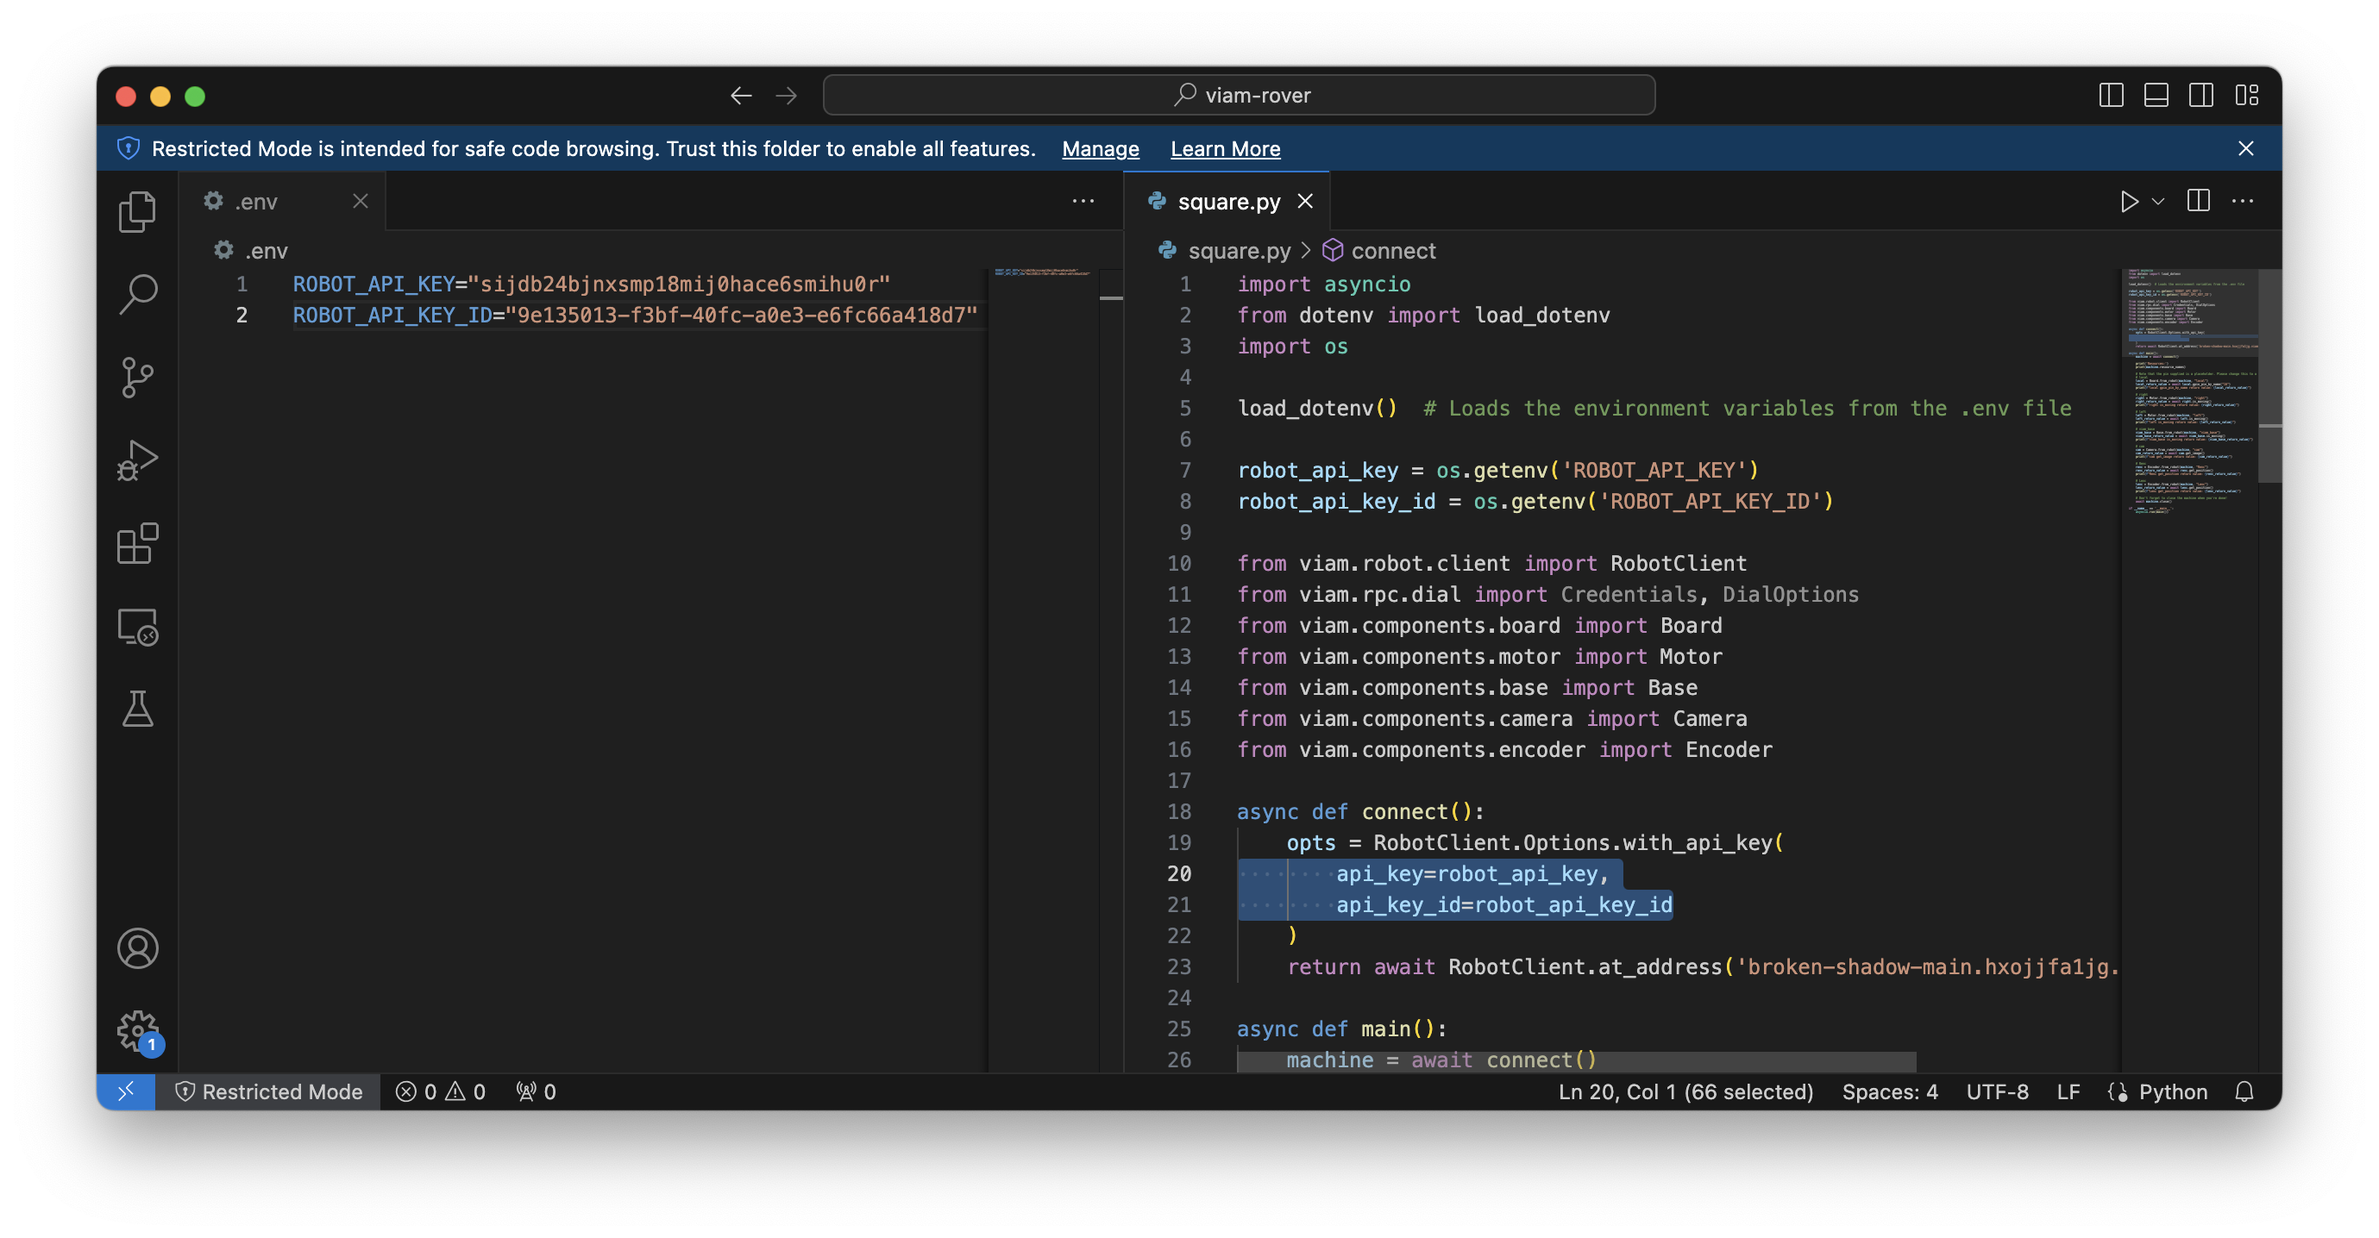
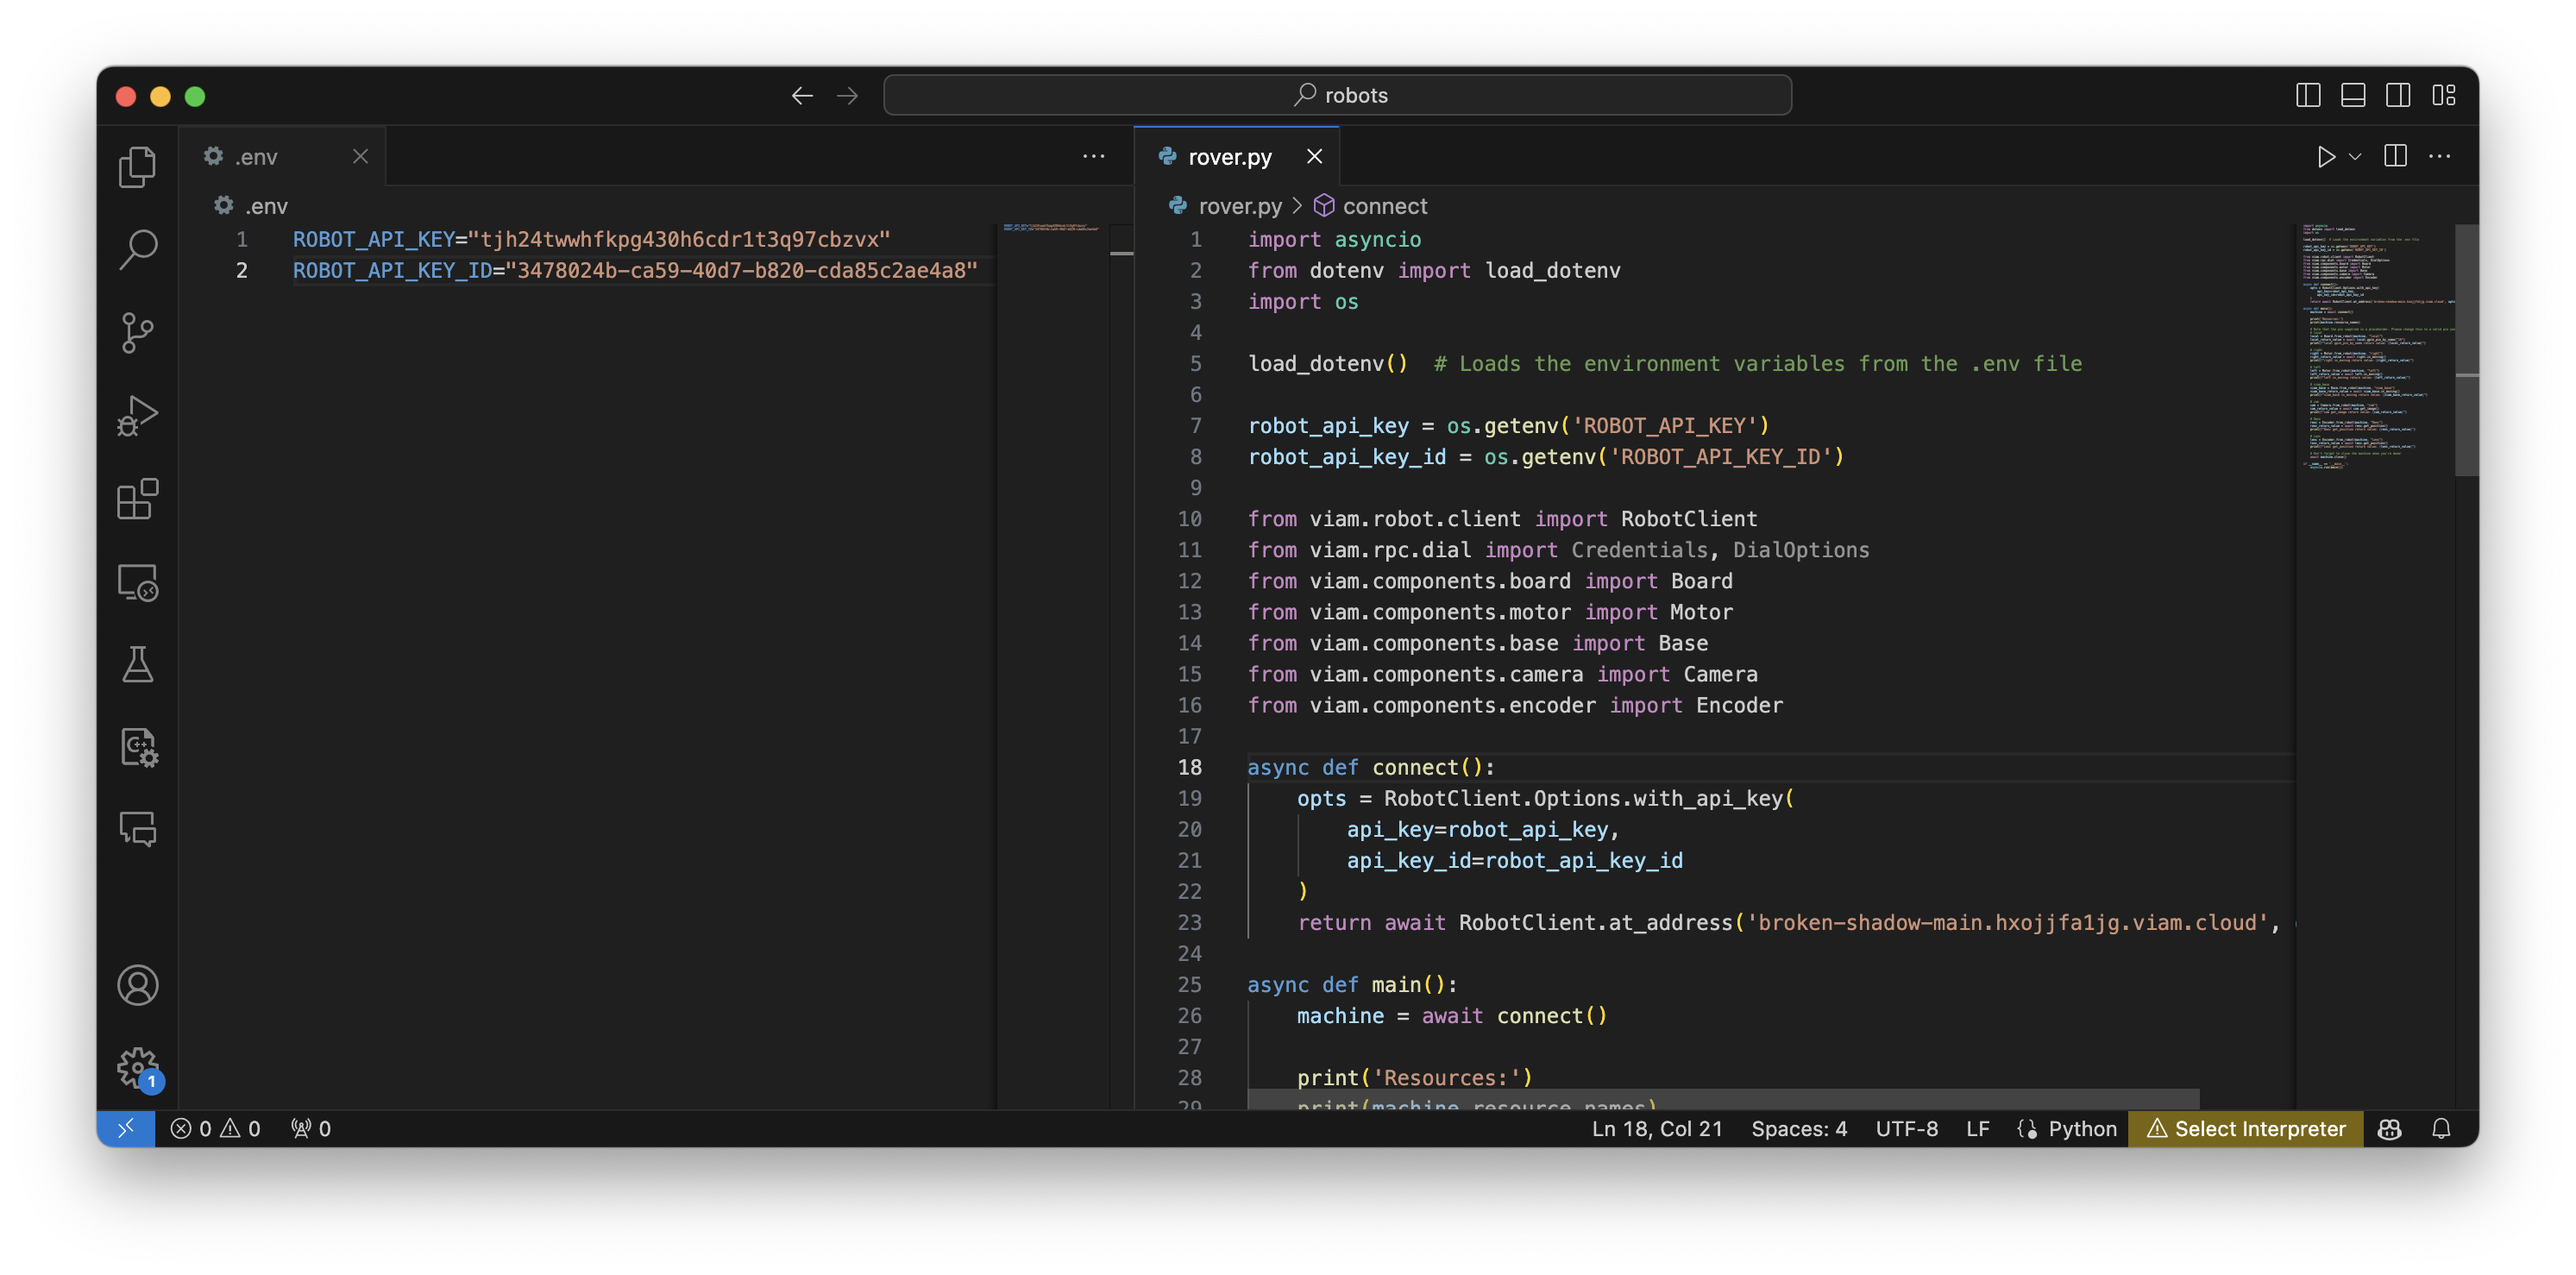
updated per PR suggestions

Changed region(s): [[0.0312, 0.0306, 0.9666, 0.9192]]

diff --git a/site/viamguides/src/environment-variables/environment-variables.md b/site/viamguides/src/environment-variables/environment-variables.md
@@ -32,7 +32,7 @@ In this codelab, let's learn how to use Python variables with our Viam projects 
 ### What You’ll Need
 
 - A computer with MacOS, Windows, or Linux 
-- [Python3](https://www.python.org/downloads/)
+- [Python3](https://www.python.org/downloads/) installed on your computer
 - [VS Code](https://code.visualstudio.com/download) installed, or another similar code editor of your choice.
 
 ### What You'll Build
@@ -102,16 +102,17 @@ Duration: 5
 1. **Show secrets**: The sample code shows you how to authenticate and connect to a machine, as well as some of the methods you can use on your configured components and services. To show your machine’s API key and API key ID in the sample code, toggle **Include secret** on the CONNECT tab’s Code sample page. 
   ![Code sample](assets/Code.png)
 1. **Hide secrets**: Instead of leaving our sensitive credentials hard coded in this code sample, let's set up our API key and API key ID as environment variables. Toggle **Include secrets** once again, this time to remove the credentials from the code sample. 
-1. **Copy the code**: From the command line in your terminal window, create a new file called `square.py`, and copy the code sample into this file.
+1. **Create the code file**: From the command line in your terminal window, create a new file called `rover.py`.
    ```bash
-   touch square.py
+   touch rover.py
    ```
+1. **Paste the code sample**: Copy and paste the code sample from the Viam app into this new file `rover.py`.
 ### Run the sample code
 1. **Create `.env` file**: From the command line, create a new file called `.env` to store our environment variables to use in local development.
     ```bash
     touch .env
     ```
-1. **Input environment variables**: Add your environment variables to the `.env` file, formatted like the following:
+1. **Input environment variables**: Add your own environment variables to the `.env` file, formatted like the following. Make sure to update the values with your own environment variables from the code sample in the Viam app, placed between the double quotes as shown here. 
     ```
     ROBOT_API_KEY="sijdb24bjnxsmp18mij0hace6smihu0r"
     ROBOT_API_KEY_ID="9e135013-f3bf-40fc-a0e3-e6fc66a418d7"
@@ -120,7 +121,7 @@ Duration: 5
     ```bash
     pip install python-dotenv
    ```
-1. **Load the variables into your environment**: At the top of your `square.py` file, add the following code to load variables into your environment.
+1. **Load the variables into your environment**: At the top of your `rover.py` file, add the following code to load variables into your environment.
     ```python
     from dotenv import load_dotenv
     import os
@@ -130,14 +131,16 @@ Duration: 5
     ROBOT_API_KEY = os.getenv('ROBOT_API_KEY')
     ROBOT_API_KEY_ID = os.getenv('ROBOT_API_KEY_ID')
     ```
-1. **Use variables in your code**: You can now use these variables within your code. On rows 7 and 8 in `square.py`, you load variables into the environment. And then on rows 20 and 21, you use those variables to access your machine.
+1. **Use variables in your code**: You can now use these variables within your code. On rows 7 and 8 in `rover.py`, you load variables into the environment. And then on rows 20 and 21, you use those variables to access your machine.
   ![Code in VS Code](assets/vscode.png)
-1. **Run the code:** Run the sample code to connect to your machine
+1. **Run the code:** Run the sample code to connect to your machine, and inspect the output.
    ```bash
-   python square.py
+   python rover.py
    ```
+  ![Run rover script](assets/runRover.png)
 
-If you want to play with the rover, go to the Viam app **CONTROL** tab to interact with your machine’s resources. Click on one of the camera panels and toggle the camera stream on so you can observe the rover’s movements. Or try adding more code to [drive the rover in a square](https://docs.viam.com/get-started/drive-rover/).
+> aside positive
+> If you want to play with the rover, go to the Viam app **CONTROL** tab to interact with your machine’s resources. Click on one of the camera panels and toggle the camera stream on so you can observe the rover’s movements. Or try adding more code to [drive the rover in a square](https://docs.viam.com/get-started/drive-rover/).
 
 In the next few sections, learn how to use variables on your machine in production.
 
@@ -155,25 +158,34 @@ Once you have the code working in your local development environment, you may ch
     ```bash
     ssh <USERNAME>@<REMOTE-HOSTNAME>.local
     ```
+    > aside negative
+    > On some networks, if the `hostname.local` alias fails to resolve, you can use the static IP address found in the Viam app status dropdown. For example, instead of `username@hostname.local`, you could use `username@192.168.2.197`.
+      ![Static IP for machine](assets/staticIP.png)
 1. **Create a project directory**: Create a new directory on your machine to hold your project code.
     ```bash
     mkdir robot
     ```
+1. **Create and activate a virtual environment**: In the new project directory `robot`, create and activate a virtual environment called `.venv` for Python to run in.
+    ```bash
+    python3 -m venv .venv
+    source .venv/bin/activate
+    ```
+    Once again, `.venv` prepends the commands in your terminal window to indicate the Python packages being used are from this particular environment. You can exit this environment by running `deactivate`.
 1. **Install dependencies**: Install the Viam Python SDK (and other dependencies if required) into the folder. 
     ```bash
     pip3 install viam-sdk
     ```
 <!-- TODO do i need to activate a venv? -->
 <!-- TODO do i need to chmod? -->
-1. **Copy file(s) to the machine**: From the original computer you were developing on (not the secure shell prompt accessing your machine), copy the `square.py` file to your machine.
+1. **Copy file(s) to the machine**: From the original computer you were developing on (not the secure shell prompt accessing your machine), copy the `rover.py` file to your machine.
     ```bash
-    scp square.py <USERNAME>@<REMOTE-HOSTNAME>.local:/home/myboard/robot/square.py
+    scp rover.py <USERNAME>@<REMOTE-HOSTNAME>.local:/home/myboard/robot/rover.py
     ```
-1. **Add a process**: [Configure a process](https://docs.viam.com/configure/processes/#configure-a-process) by going to the **CONFIGURE** tab of the Viam app. Click the plus icon (**+**) next to your machine in the left-hand menu and select **Process**. Name your process `process-square`.
+1. **Add a process**: [Configure a process](https://docs.viam.com/configure/processes/#configure-a-process) by going to the **CONFIGURE** tab of the Viam app. Click the plus icon (**+**) next to your machine in the left-hand menu and select **Process**. Name your process `process-rover`.
   ![Add a process](assets/process.png)
 1. **Find executable path**: To find out the path of the Python 3 executable that is being used on your machine, you can input `which python3` in the command line from within your secure shell. You will need this output for the upcoming steps.
-1. **Find file location**: To find the complete path of your `square.py` file on your machine, navigate into the new `robots/` directory, and input `pwd` in the command line from within your secure shell. You will need this output for the next step.
-1. **Configure the process**: Fill in the required fields to [configure your process](https://docs.viam.com/configure/processes/#configure-a-process) and **Save** in the upper right corner of the screen to save your config. The following example configuration executes the command `python3 square.py` in your `/home/myName/robot/` directory every time your machine boots, and keeps it executing indefinitely.
+1. **Find file location**: To find the complete path of your `rover.py` file on your machine, navigate into the new `robot/` directory, and input `pwd` in the command line from within your secure shell. You will need this output for the next step.
+1. **Configure the process**: Fill in the required fields to [configure your process](https://docs.viam.com/configure/processes/#configure-a-process) and **Save** in the upper right corner of the screen to save your config. The following example configuration executes the command `python3 rover.py` in your `home/myName/robot/` directory every time your machine boots, and keeps it executing indefinitely.
   ![Configure a process](assets/processConfig.png)
 
 In our example, we added our code as a [process](https://docs.viam.com/configure/processes/), but you can also add control code to your machine as a [module](https://docs.viam.com/how-tos/create-module/).
